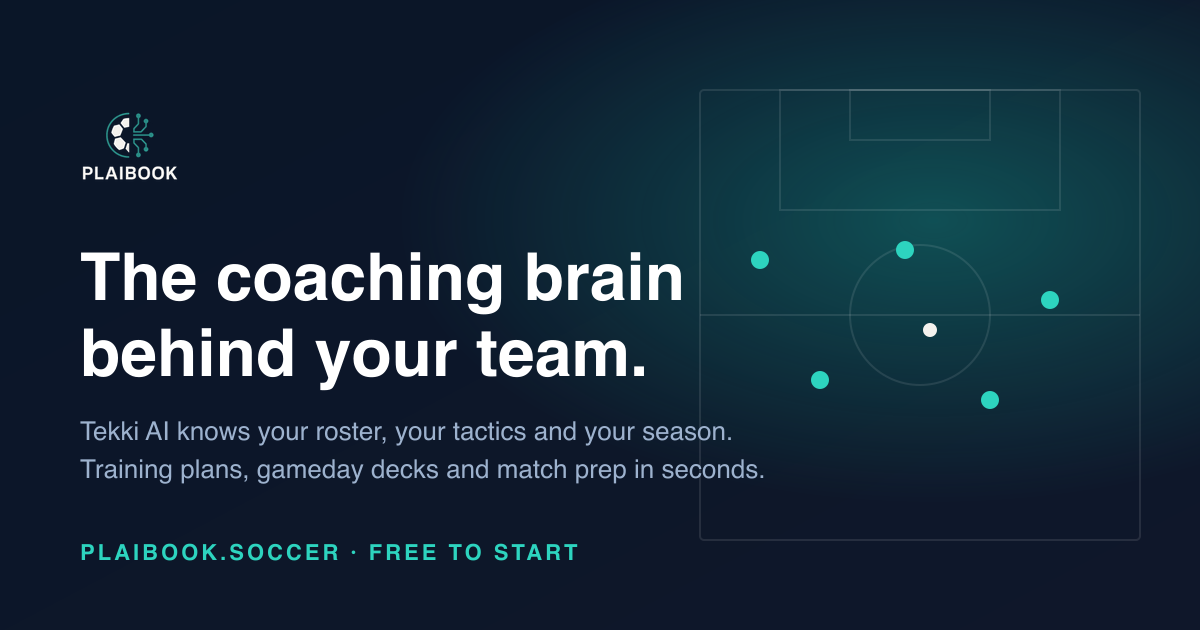
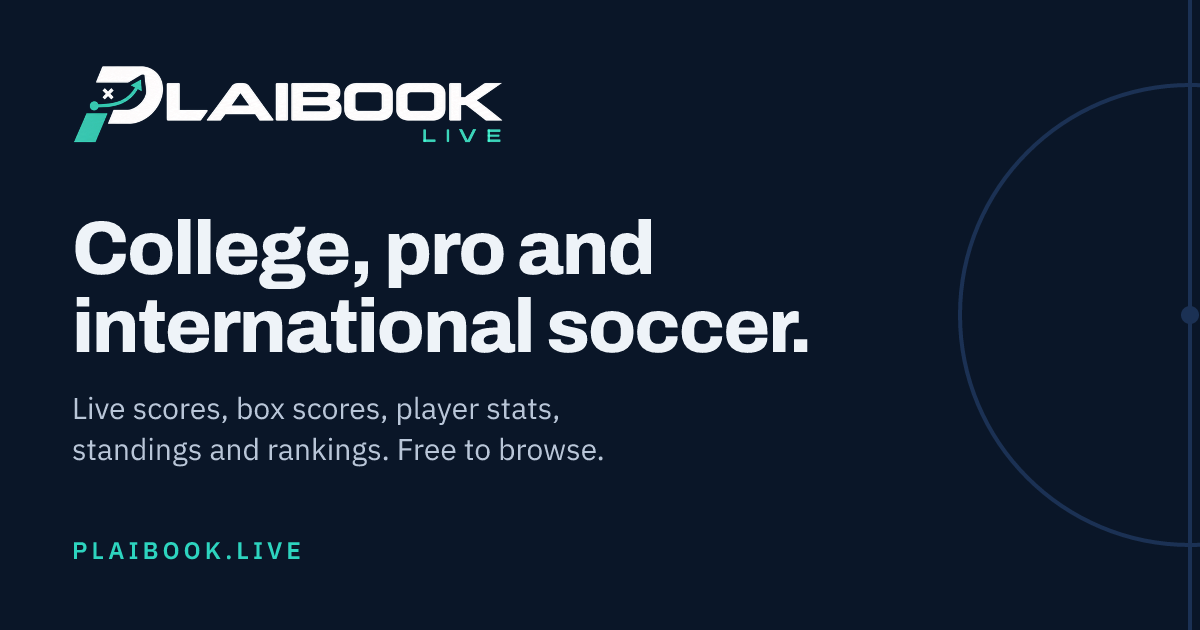
Rename Plaibook Stats to Plaibook Live
New LIVE logo (same lockup, STATS line redrawn as LIVE), a plaibook.live
share card in place of the plaibook.soccer one, and the name everywhere
people see it: titles, policy pages, header/footer, share-card wordmark,
calendar feeds, API docs. Internal names (package, follows key, hash salt,
crawler user agents) and old migrations are unchanged on purpose.

diff --git a/src/legal/content.ts b/src/legal/content.ts
@@ -1,11 +1,11 @@
-// The policy and information pages of Plaibook Stats (/about, /contact, /terms, /privacy, /sources, /data-use,
+// The policy and information pages of Plaibook Live (/about, /contact, /terms, /privacy, /sources, /data-use,
 // /copyright, /corrections, /accessibility, /advertise, /privacy-choices). Pure data, one copy: the server renders it for search engines and
 // no-JavaScript readers (src/seo/legal.ts) and the app fetches it from /api/legal/:slug, so the two never differ.
 // A block is a paragraph (string; [text](url) makes a link), { bullets }, or { table: { head, rows } }.
 // Written for the free stats site; the paid Plaibook app (plaibook.soccer) has its own policies.
 
 export const COMPANY = 'Plaibook Technologies, Inc.';
-export const SITE_NAME = 'Plaibook Stats';
+export const SITE_NAME = 'Plaibook Live';
 export const SITE = 'www.plaibook.live';
 /** The one address on every page. Change it here only. */
 export const CONTACT = 'support@plaibook.soccer';
@@ -21,8 +21,8 @@ const T = (head: string[], rows: string[][]): Block => ({ table: { head, rows } 
 const mail = (subject: string) => `[${CONTACT}](mailto:${CONTACT}?subject=${encodeURIComponent(subject)})`;
 
 const ABOUT: LegalPage = {
-  slug: 'about', path: '/about', nav: 'About', title: 'About Plaibook Stats',
-  description: 'Plaibook Stats is a free soccer statistics site for NCAA college soccer, professional leagues and international football, run by Plaibook Technologies, Inc.',
+  slug: 'about', path: '/about', nav: 'About', title: 'About Plaibook Live',
+  description: 'Plaibook Live is a free soccer statistics site for NCAA college soccer, professional leagues and international football, run by Plaibook Technologies, Inc.',
   intro: `${SITE_NAME} is a free soccer statistics site covering NCAA college soccer (Divisions I, II and III, men's and women's), professional leagues around the world and international football. It is run by ${COMPANY}, the company behind Plaibook, the coaching platform at plaibook.soccer. The Site is free to use; it is supported by advertising, sponsorships and paid data access.`,
   sections: [
     { id: 'what', heading: 'What you will find here', blocks: [B([
@@ -44,7 +44,7 @@ const ABOUT: LegalPage = {
 
 const CONTACT_PAGE: LegalPage = {
   slug: 'contact', path: '/contact', nav: 'Contact', title: 'Contact',
-  description: 'How to reach Plaibook Stats about corrections, removal requests, privacy, copyright, press and data licensing.',
+  description: 'How to reach Plaibook Live about corrections, removal requests, privacy, copyright, press and data licensing.',
   intro: `The quickest way to reach us is the request form on [Corrections and removal](/corrections), which goes straight to the people who keep the data. You can also email ${CONTACT}; please use the subject line below so your message reaches the right place.`,
   sections: [
     { id: 'who', heading: 'Who to contact about what', blocks: [T(['About', 'Use', 'Subject line'], [
@@ -63,7 +63,7 @@ const CONTACT_PAGE: LegalPage = {
 
 const TERMS: LegalPage = {
   slug: 'terms', path: '/terms', nav: 'Terms of use', title: 'Terms of Use',
-  description: 'The terms that apply when you use Plaibook Stats, including acceptable use, automated access, attribution and disclaimers.',
+  description: 'The terms that apply when you use Plaibook Live, including acceptable use, automated access, attribution and disclaimers.',
   intro: `These Terms of Use govern your use of ${SITE_NAME} at ${SITE}, its pages and its data (together, the "Site"), provided by ${COMPANY}, a Delaware corporation ("we", "us"). By using the Site you agree to these Terms and to our [Privacy Policy](/privacy). If you do not agree, do not use the Site.`,
   sections: [
     { id: 'use', heading: 'Using the Site', blocks: [
@@ -122,7 +122,7 @@ const TERMS: LegalPage = {
 
 const PRIVACY: LegalPage = {
   slug: 'privacy', path: '/privacy', nav: 'Privacy', title: 'Privacy Policy',
-  description: 'What Plaibook Stats collects (very little), what stays in your browser, how advertising works, and the rights you have.',
+  description: 'What Plaibook Live collects (very little), what stays in your browser, how advertising works, and the rights you have.',
   intro: `${SITE_NAME} has no accounts and sets no cookies of its own. To stay free it shows sponsors, which we serve ourselves without cookies or tracking, and it may show display ads from Google AdSense, which do use cookies; the section on cookies below explains how, and [Your privacy choices](/privacy-choices) lets you turn off personalised ads. This policy explains the little we collect when you visit ${SITE}, what stays in your own browser, and how we handle information about the athletes on the Site. It is provided by ${COMPANY}.`,
   sections: [
     { id: 'collect', heading: 'What we collect when you visit', blocks: [
@@ -171,7 +171,7 @@ const PRIVACY: LegalPage = {
 
 const SOURCES: LegalPage = {
   slug: 'sources', path: '/sources', nav: 'Credits', title: 'Credits',
-  description: 'Licence notices for the open data used on Plaibook Stats.',
+  description: 'Licence notices for the open data used on Plaibook Live.',
   intro: `Some of the data on ${SITE_NAME} is adapted from open sources whose licences ask for the notices below. Questions: ${CONTACT}.`,
   sections: [
     { id: 'wikipedia', heading: 'Wikipedia', blocks: [
@@ -191,7 +191,7 @@ const SOURCES: LegalPage = {
 
 const DATA_USE: LegalPage = {
   slug: 'data-use', path: '/data-use', nav: 'Data use and bots', title: 'Data use, our crawler and bots',
-  description: 'How Plaibook Stats collects data from other sites, the limits for bots and automated access, and AI crawlers.',
+  description: 'How Plaibook Live collects data from other sites, the limits for bots and automated access, and AI crawlers.',
   intro: 'This page explains how our own crawler behaves when it visits other sites, and the rules for anyone reading this Site automatically.',
   sections: [
     { id: 'crawler', heading: 'Our crawler', blocks: [
@@ -211,7 +211,7 @@ const DATA_USE: LegalPage = {
       'There is no public API or bulk download (see below); for data in bulk, ask us.',
     ] },
     { id: 'api', heading: 'No public API', blocks: [
-      'Plaibook Stats has no public API. Its data feeds our own Plaibook app through a private interface that is not open to others. Some data comes from licensed providers and is shown on our pages only. Credit Plaibook Stats wherever you quote the data.',
+      'Plaibook Live has no public API. Its data feeds our own Plaibook app through a private interface that is not open to others. Some data comes from licensed providers and is shown on our pages only. Credit Plaibook Live wherever you quote the data.',
     ] },
     { id: 'ai', heading: 'AI crawlers', blocks: [
       'Our robots.txt allows answer engines and AI search tools to read the Site\'s pages (not its /api/ endpoints) so they can cite it with a link, at up to about 20 pages a minute each; faster requests are refused with "too many requests". AI-training crawlers (such as GPTBot, ClaudeBot, Google-Extended, CCBot, Bytespider, meta-externalagent and Amazonbot) are kept off the Site, and their requests are refused. Using the Site\'s data to train AI models is not allowed under our [Terms of Use](/terms).',
@@ -221,7 +221,7 @@ const DATA_USE: LegalPage = {
 
 const COPYRIGHT: LegalPage = {
   slug: 'copyright', path: '/copyright', nav: 'Copyright', title: 'Copyright and DMCA',
-  description: 'How to tell Plaibook Stats about copyrighted material, the counter-notice process and our repeat-infringer policy.',
+  description: 'How to tell Plaibook Live about copyrighted material, the counter-notice process and our repeat-infringer policy.',
   intro: `We respect the rights of others. If you believe material on the Site infringes your copyright, send a notice to our designated agent and we will remove or disable it promptly, as the Digital Millennium Copyright Act (17 U.S.C. §512) provides.`,
   sections: [
     { id: 'notice', heading: 'Sending a notice', blocks: [
@@ -249,7 +249,7 @@ const COPYRIGHT: LegalPage = {
 
 const CORRECTIONS: LegalPage = {
   slug: 'corrections', path: '/corrections', nav: 'Corrections and removal', title: 'Corrections and removal requests',
-  description: 'Report an error on Plaibook Stats, or ask for a player\'s details or photo to be corrected or removed.',
+  description: 'Report an error on Plaibook Live, or ask for a player\'s details or photo to be corrected or removed.',
   intro: 'Found a wrong score, a misspelled name or a player in the wrong team? Want your details or photo taken down? Tell us here. We read every request.',
   form: 'request',
   sections: [
@@ -272,7 +272,7 @@ const CORRECTIONS: LegalPage = {
 
 const ACCESSIBILITY: LegalPage = {
   slug: 'accessibility', path: '/accessibility', nav: 'Accessibility', title: 'Accessibility',
-  description: 'Plaibook Stats aims to meet WCAG 2.2 AA. What we have done, known limits and how to tell us about a problem.',
+  description: 'Plaibook Live aims to meet WCAG 2.2 AA. What we have done, known limits and how to tell us about a problem.',
   intro: `We want everyone to be able to use ${SITE_NAME}, including people who use screen readers, keyboards, magnification or other assistive technology. We aim to meet the Web Content Accessibility Guidelines (WCAG) 2.2 at level AA.`,
   sections: [
     { id: 'done', heading: 'What we have done', blocks: [B([
@@ -295,7 +295,7 @@ const ACCESSIBILITY: LegalPage = {
 
 const ADVERTISE: LegalPage = {
   slug: 'advertise', path: '/advertise', nav: 'Advertise', title: 'Advertise and data licensing',
-  description: 'Sponsor a section of Plaibook Stats, advertise to college, pro and international soccer fans, or ask about data licensing.',
+  description: 'Sponsor a section of Plaibook Live, advertise to college, pro and international soccer fans, or ask about data licensing.',
   intro: `${SITE_NAME} is read by players, parents, coaches and fans following college, professional and international soccer, with an American focus. Sponsorships, advertising and data licensing keep the Site free. Tell us what you have in mind with the form below and we will reply within 2 business days.`,
   form: 'advertise',
   sections: [
@@ -318,7 +318,7 @@ const ADVERTISE: LegalPage = {
 
 const PRIVACY_CHOICES: LegalPage = {
   slug: 'privacy-choices', path: '/privacy-choices', nav: 'Your privacy choices', title: 'Your privacy choices',
-  description: 'Turn off personalised ads on Plaibook Stats, and how Global Privacy Control and consent work here.',
+  description: 'Turn off personalised ads on Plaibook Live, and how Global Privacy Control and consent work here.',
   intro: 'Choose whether the ads on this Site may be personalised. Your choice is kept in this browser only; set it again on each browser or device you use. It applies whenever display ads are switched on.',
   form: 'privacy-choices',
   sections: [

diff --git a/src/api/openapi.ts b/src/api/openapi.ts
@@ -12,9 +12,9 @@ export function openapiSpec(serverUrl: string): Record<string, unknown> {
   return {
     openapi: '3.1.0',
     info: {
-      title: 'Plaibook Stats API',
+      title: 'Plaibook Live API',
       version: '1.0.0',
-      description: 'Private to Plaibook (no public access since 2026-10-16). Read-only NCAA soccer data (D1/D2/D3, men and women) on the /v1 college routes, and every read the Plaibook Stats site makes (college, pro, international, news) under /v1/site. Every request needs a named key (X-Api-Key or Authorization: Bearer).',
+      description: 'Private to Plaibook (no public access since 2026-10-16). Read-only NCAA soccer data (D1/D2/D3, men and women) on the /v1 college routes, and every read the Plaibook Live site makes (college, pro, international, news) under /v1/site. Every request needs a named key (X-Api-Key or Authorization: Bearer).',
     },
     servers: [{ url: serverUrl }],
     components: {
@@ -46,7 +46,7 @@ export function openapiSpec(serverUrl: string): Record<string, unknown> {
       '/v1/matches/{id}/preview': { get: { summary: 'Match preview and review: head-to-head, form, standing, poll rank, key players, lineups', parameters: [{ name: 'id', in: 'path', required: true, schema: uuid }], responses: ok('{ game, head_to_head { played, home_wins, away_wins, ties, home_goals, away_goals, avg_goals, home_clean_sheets, away_clean_sheets, at_home, at_away, at_neutral { w, l, t }, biggest_home_win, biggest_away_win { id, game_date, score, margin }, streak { side, kind: won|unbeaten|drawn, count }, first_season, last_meeting, games[] (every earlier meeting, newest first, each with result W/L/T for the current home team and scorers[] { program_id, name, minute }) } — all from the current home team\'s side, sides { home, away } } — each side: stats (team season stats; form.last5 oldest→newest, streak), standing (rank, pod, conf record, points, of = table size), poll { rank, week_of }, leaders { scorers[], assists[], keeper }, lineup_status (match: this match\'s box score names starters · no_starters: its box score only lists who played · past: no box score yet · none), lineup { source, starters[], subs[], dnp[], keeper } for this match only (null until its box score exists), last_lineup { …, game_id, game_date, opponent } the side\'s latest lineup with starters when lineup is null; each line carries headshot_url where the school publishes a hotlinkable photo. Suppressed players are withheld (numbers stay, names and ids go).') } },
       '/v1/conferences': { get: { summary: 'Conferences with member counts and the top of each table', parameters: [season, gender, division], responses: ok('{ season, conferences: [{ id, ncaa_seo, name, short_name, division, site_host, members { m, w }, table { m|w: { top: [{ program_id, name, seo, logo, rank, conf_w, conf_l, conf_t, conf_pts }], source: conference|computed|none } } }] } sorted by name.') } },
       '/v1/conferences/{id}': { get: { summary: 'One conference: table, members, this week\'s matches, leaders, ranked members', parameters: [{ name: 'id', in: 'path', required: true, schema: uuid }, season, { ...gender, description: 'm (default) or w' }], responses: ok('{ conference, season, gender, standings (as /v1/standings for one conference), members[] (with season stats, form and poll rank), this_week (as /v1/matches, Monday to Sunday Eastern), leaders { points[], goals[], assists[], save_pct[] }, ranked[] }.') } },
-      '/v1/site/{path}': { get: { summary: 'Any read the Plaibook Stats site makes', description: 'Runs the site\'s own GET /api/{path} (college, pro, international, news) and returns its answer unchanged. The routes Plaibook may call are SITE_ROUTES in docs/plaibook-client.mjs; admin routes answer 404.', parameters: [{ name: 'path', in: 'path', required: true, schema: { type: 'string' }, description: 'e.g. programs/{id}/elo, pro/players/{slug}, intl/rankings, news' }], responses: { 200: { description: 'The site route\'s answer (JSON, or text/calendar for a .ics feed).' }, 401: { $ref: '#/components/responses/Unauthorized' }, 404: { description: 'Not a site data route.' }, 429: { $ref: '#/components/responses/RateLimited' } } } },
+      '/v1/site/{path}': { get: { summary: 'Any read the Plaibook Live site makes', description: 'Runs the site\'s own GET /api/{path} (college, pro, international, news) and returns its answer unchanged. The routes Plaibook may call are SITE_ROUTES in docs/plaibook-client.mjs; admin routes answer 404.', parameters: [{ name: 'path', in: 'path', required: true, schema: { type: 'string' }, description: 'e.g. programs/{id}/elo, pro/players/{slug}, intl/rankings, news' }], responses: { 200: { description: 'The site route\'s answer (JSON, or text/calendar for a .ics feed).' }, 401: { $ref: '#/components/responses/Unauthorized' }, 404: { description: 'Not a site data route.' }, 429: { $ref: '#/components/responses/RateLimited' } } } },
       '/v1/openapi.json': { get: { summary: 'This document', responses: { 200: { description: 'OpenAPI 3.1' }, 401: { $ref: '#/components/responses/Unauthorized' } } } },
     },
   };

diff --git a/ui/src/components/shell.tsx b/ui/src/components/shell.tsx
@@ -46,7 +46,7 @@ function AreaSwitch({ section }: { section: Section | null }) {
       </nav>
       <div ref={root} className="relative shrink-0 sm:hidden">
         <button type="button" className="flex min-h-11 items-center gap-1.5 rounded-md pr-1 text-sm font-semibold text-chalk-100" aria-expanded={open} aria-haspopup="true" aria-controls="area-menu" onClick={() => setOpen((v) => !v)}>
-          <Logo withText={false} size={24} />{section ? AREA_LABEL[section] : 'Plaibook Stats'}<ChevronDown size={14} aria-hidden className="text-chalk-400" />
+          <Logo withText={false} size={24} />{section ? AREA_LABEL[section] : 'Plaibook Live'}<ChevronDown size={14} aria-hidden className="text-chalk-400" />
         </button>
         {open && (
           <nav id="area-menu" aria-label="Area" className="absolute left-0 top-full z-40 mt-1 w-56 rounded-lg border border-field-700 bg-field-900 p-1 shadow-xl shadow-black/50">
@@ -154,7 +154,7 @@ export function TopBar() {
   return (
     <header className="sticky top-0 z-30 border-b border-field-700 bg-field-950">
       <div className="mx-auto flex h-14 max-w-page items-center gap-2 px-4 sm:gap-4 sm:px-6">
-        <Link to="/" className="hidden shrink-0 rounded sm:block" aria-label="Plaibook Stats home"><Logo size={34} className="hidden xl:inline-flex" /><Logo withText={false} size={28} className="xl:hidden" /></Link>
+        <Link to="/" className="hidden shrink-0 rounded sm:block" aria-label="Plaibook Live home"><Logo size={34} className="hidden xl:inline-flex" /><Logo withText={false} size={28} className="xl:hidden" /></Link>
         <AreaSwitch section={home ? null : section} />
         {/* The home page belongs to no one area: its search and the switch are the way in. */}
         {!home && <AreaNav area={section} admin={admin} />}
@@ -259,7 +259,7 @@ export function Crumbs({ items }: { items: { label: ReactNode; to?: string }[] }
 const FOOTER_COLUMNS: { title: string; links: [string, string][] }[] = [
   { title: 'College', links: [['/matches', 'Matches'], ['/conferences', 'Conferences'], ['/rankings', 'Rankings'], ['/team-of-the-week', 'Team of the week'], ['/tournament', 'NCAA tournament odds'], ['/tv', 'On TV']] },
   { title: 'Pro and International', links: [['/pro/matches', 'Pro matches'], ['/pro/leagues', 'Leagues'], ['/pro/abroad', 'Americans abroad'], ['/intl/matches', 'International matches'], ['/intl/tournaments', 'Tournaments'], ['/intl/rankings', 'World rankings']] },
-  { title: 'About', links: [['/about', 'About Plaibook Stats'], ['/contact', 'Contact'], ['/corrections', 'Report an error or request removal'], ['/sources', 'Credits'], ['/data-use', 'Data use and bots'], ['/advertise', 'Advertise with us']] },
+  { title: 'About', links: [['/about', 'About Plaibook Live'], ['/contact', 'Contact'], ['/corrections', 'Report an error or request removal'], ['/sources', 'Credits'], ['/data-use', 'Data use and bots'], ['/advertise', 'Advertise with us']] },
   { title: 'Legal', links: [['/terms', 'Terms of use'], ['/privacy', 'Privacy'], ['/privacy#browser', 'Cookies and storage'], ['/privacy-choices', 'Your privacy choices'], ['/copyright', 'Copyright'], ['/accessibility', 'Accessibility']] },
 ];
 
@@ -274,7 +274,7 @@ export function Footer() {
       <div className="mx-auto w-full max-w-page px-4 pb-28 pt-10 sm:px-6 md:pb-10">
         <div className="grid gap-8 lg:grid-cols-[minmax(0,1.1fr)_minmax(0,3fr)]">
           <div className="space-y-3">
-            <Link to="/" aria-label="Plaibook Stats home" className="inline-block"><Logo size={26} /></Link>
+            <Link to="/" aria-label="Plaibook Live home" className="inline-block"><Logo size={26} /></Link>
             <p className="max-w-xs text-sm leading-relaxed text-chalk-300">Free soccer stats for NCAA college soccer, professional leagues and international football.</p>
             <p className="text-sm text-chalk-400">Coaching a team? <a href="https://www.plaibook.soccer/?utm_source=stats&amp;utm_medium=referral&amp;utm_campaign=footer" className="text-pitch-300 hover:text-pitch-200">Coach with Tekki</a>, Plaibook's AI assistant for soccer coaches.</p>
           </div>
@@ -288,7 +288,7 @@ export function Footer() {
           </nav>
         </div>
         <div className="mt-8 space-y-2 border-t border-field-700 pt-5 text-xs leading-relaxed text-chalk-500">
-          <p>Team names, logos and competition names are trademarks of their owners. Plaibook Stats is independent and is not affiliated with or endorsed by the NCAA, any conference, school, league or federation.</p>
+          <p>Team names, logos and competition names are trademarks of their owners. Plaibook Live is independent and is not affiliated with or endorsed by the NCAA, any conference, school, league or federation.</p>
           <p className="flex flex-wrap gap-x-4 gap-y-1 pt-1 text-chalk-400">
             <span>© {year} Plaibook Technologies, Inc.</span>
             <span>Stats are provided as-is. <Link to="/corrections" className="text-chalk-300 hover:text-pitch-300">See an error? Report it.</Link></span>

diff --git a/ui/src/pages/Photo.tsx b/ui/src/pages/Photo.tsx
@@ -23,7 +23,7 @@ export default function Photo() {
   const key = params.get('player') ?? '';
   const entity = useEntityId('player', key);
   const q = useQuery({ queryKey: ['player', entity.id], queryFn: () => api<any>(`/api/players/${entity.id}`), enabled: !!entity.id });
-  if (!key || entity.missing) return <EmptyState title="Which player?" body="Open the player's page on Plaibook Stats and choose Add a photo there." action={<Link className="btn-ghost btn-sm" to="/players">Find a player</Link>} />;
+  if (!key || entity.missing) return <EmptyState title="Which player?" body="Open the player's page on Plaibook Live and choose Add a photo there." action={<Link className="btn-ghost btn-sm" to="/players">Find a player</Link>} />;
   if (entity.error) return <ErrorBox error={entity.error} />;
   if (q.isPending) return <div className="mx-auto max-w-2xl space-y-3"><Skeleton className="h-16" /><Skeleton className="h-96" /></div>;
   if (q.error) return <ErrorBox error={q.error} retry={() => q.refetch()} />;
@@ -40,7 +40,7 @@ export default function Photo() {
         </div>
       </header>
       <div className="space-y-2 text-[15px] leading-relaxed text-chalk-300">
-        <p>Send a photo of this player for their Plaibook Stats page and for Plaibook&apos;s posts about them (team of the week, stat leaders). We look at every photo before it is used, and credit it the way you ask.</p>
+        <p>Send a photo of this player for their Plaibook Live page and for Plaibook&apos;s posts about them (team of the week, stat leaders). We look at every photo before it is used, and credit it the way you ask.</p>
         <p>The player, a parent or guardian, or school or team staff can send one. We remove the location and camera details from the file. To have a photo taken down later, use the <Link to="/corrections" className="text-pitch-300 hover:text-pitch-200">corrections form</Link>.</p>
       </div>
       <PhotoForm playerId={p.id} name={p.display_name} />
@@ -114,7 +114,7 @@ function PhotoForm({ playerId, name }: { playerId: string; name: string }) {
         <legend className={label}>Please confirm</legend>
         <label className="flex items-start gap-2"><input type="checkbox" required className="mt-1" checked={f.consent_owner} onChange={set('consent_owner')} /><span>I took this photo, or the person who took it said we can use it.</span></label>
         <label className="flex items-start gap-2"><input type="checkbox" required className="mt-1" checked={f.consent_age} onChange={set('consent_age')} /><span>The player is 18 or older, or I am their parent or guardian.</span></label>
-        <label className="flex items-start gap-2"><input type="checkbox" required className="mt-1" checked={f.consent_use} onChange={set('consent_use')} /><span>Plaibook may show this photo on Plaibook Stats and in Plaibook&apos;s social posts, credited as above, until I ask for it to be removed.</span></label>
+        <label className="flex items-start gap-2"><input type="checkbox" required className="mt-1" checked={f.consent_use} onChange={set('consent_use')} /><span>Plaibook may show this photo on Plaibook Live and in Plaibook&apos;s social posts, credited as above, until I ask for it to be removed.</span></label>
       </fieldset>
       {/* A person never fills this in; bots do. */}
       <div aria-hidden className="absolute -left-[9999px] h-0 w-0 overflow-hidden"><label htmlFor="photo-website">Website</label><input id="photo-website" tabIndex={-1} autoComplete="off" value={f.website} onChange={set('website')} /></div>

diff --git a/tests/seo-head.test.ts b/tests/seo-head.test.ts
@@ -13,7 +13,7 @@ const ldOf = (h: { jsonLd: Record<string, unknown>[] }, type: string) => h.jsonL
 describe('teamHead', () => {
   it('builds title, description and an absolute canonical without the current season', () => {
     const h = teamHead(teamFixture(), ctx);
-    expect(h.title).toBe("Duke Men's Soccer 2026: Roster, Schedule and Stats | Plaibook Stats");
+    expect(h.title).toBe("Duke Men's Soccer 2026: Roster, Schedule and Stats | Plaibook Live");
     expect(h.canonical).toBe('https://plaibook-college-scraper.onrender.com/teams/duke/men');
     expect(h.description).toContain('8-2-1 overall (3-1-0 ACC)');
     expect(h.description).toContain('head coach Kevin Coach');
@@ -32,7 +32,7 @@ describe('teamHead', () => {
     expect(team.coach).toEqual({ '@type': 'Person', name: 'Kevin Coach' });
     expect(team.athlete[0]).toMatchObject({ '@type': 'Person', url: 'https://plaibook-college-scraper.onrender.com/players/jane-doe-222222' });
     const bc = ldOf(h, 'BreadcrumbList');
-    expect(bc.itemListElement.map((i: any) => i.name)).toEqual(['Plaibook Stats', 'Teams', "Duke Men's Soccer"]);
+    expect(bc.itemListElement.map((i: any) => i.name)).toEqual(['Plaibook Live', 'Teams', "Duke Men's Soccer"]);
   });
   it('noindexes programs that are not NCAA members that season', () => {
     expect(teamHead(teamFixture({ member: false }), ctx).robots).toBe('noindex,follow');
@@ -42,7 +42,7 @@ describe('teamHead', () => {
 describe('playerHead', () => {
   it('emits Person with the team affiliation', () => {
     const h = playerHead(playerFixture(), ctx);
-    expect(h.title).toBe("Jane Doe - Duke Men's Soccer Stats | Plaibook Stats");
+    expect(h.title).toBe("Jane Doe - Duke Men's Soccer Stats | Plaibook Live");
     expect(h.canonical).toBe('https://plaibook-college-scraper.onrender.com/players/jane-doe-222222');
     expect(h.description).toContain('2026: 6 goals, 3 assists in 11 games');
     const p = ldOf(h, 'Person');
@@ -60,7 +60,7 @@ describe('playerHead', () => {
 describe('matchHead', () => {
   it('describes a final with SportsEvent competitors, start and location', () => {
     const h = matchHead(matchFixture(), ctx);
-    expect(h.title).toBe("Wake Forest 1-2 Duke, Sep 12, 2026: Men's Soccer Box Score | Plaibook Stats");
+    expect(h.title).toBe("Wake Forest 1-2 Duke, Sep 12, 2026: Men's Soccer Box Score | Plaibook Live");
     expect(h.description).toContain('Goals: Jane Doe 12′');
     const e = ldOf(h, 'SportsEvent');
     expect(e.sport).toBe('Soccer');
@@ -132,7 +132,7 @@ describe('template', () => {
     expect(html.match(/name="description"/g)).toHaveLength(1);
     expect(html.match(/property="og:title"/g)).toHaveLength(1);
     expect(html.match(/property="og:image"/g)).toHaveLength(1);
-    expect(html).toContain('<meta property="og:site_name" content="Plaibook Stats" />');
+    expect(html).toContain('<meta property="og:site_name" content="Plaibook Live" />');
     expect(html.indexOf('<div id="root"></div>')).toBeLessThan(html.indexOf('<section id="ssr">'));
     expect(plainShell(shell)).not.toContain('<!--ssr-');
   });

diff --git a/tests/seo-pro.test.ts b/tests/seo-pro.test.ts
@@ -1,4 +1,4 @@
-// Plaibook Stats Pro's server-rendered pages and sitemaps, end to end through Fastify inject over fixture data.
+// Plaibook Live Pro's server-rendered pages and sitemaps, end to end through Fastify inject over fixture data.
 import { describe, it, expect, beforeAll, afterAll } from 'vitest';
 import Fastify, { type FastifyInstance } from 'fastify';
 import { readFileSync } from 'node:fs';
@@ -78,7 +78,7 @@ describe('pro seo routes', () => {
   it('renders a final with a score-line title, SportsEvent JSON-LD and the summary', async () => {
     const r = await app.inject({ url: `/pro/matches/${matchRow().slug}`, headers: HTML });
     expect(r.statusCode).toBe(200);
-    expect(between(r.body, '<title>', '</title>')).toBe('Portland Thorns 3-1 Boston Legacy, NWSL Women, Oct 4, 2026 | Plaibook Stats');
+    expect(between(r.body, '<title>', '</title>')).toBe('Portland Thorns 3-1 Boston Legacy, NWSL Women, Oct 4, 2026 | Plaibook Live');
     expect(r.body).toContain(`<link rel="canonical" href="${BASE}/pro/matches/${matchRow().slug}" />`);
     expect(r.body).not.toContain('name="robots"');
     const ld = jsonLd(r.body);
@@ -87,7 +87,7 @@ describe('pro seo routes', () => {
     const ssr = between(r.body, '<section id="ssr">', '</section>');
     expect(ssr).toContain('<a href="/pro/players/sophia-smith-9">Sophia Smith</a>');
     expect(ssr).toContain('assisted by O. Moultrie');
-    expect(ssr).toContain('Plaibook Stats Pro');
+    expect(ssr).toContain('Plaibook Live Pro');
   });
 
   it('unplayed and score-only matches are noindex', async () => {
@@ -119,7 +119,7 @@ describe('pro seo routes', () => {
 
   it('league and home pages', async () => {
     const l = await app.inject({ url: '/pro/leagues/usa-nwsl-women', headers: HTML });
-    expect(between(l.body, '<title>', '</title>')).toBe('NWSL Women 2026: Table, Results, Fixtures and Top Scorers | Plaibook Stats');
+    expect(between(l.body, '<title>', '</title>')).toBe('NWSL Women 2026: Table, Results, Fixtures and Top Scorers | Plaibook Live');
     expect(l.body).toContain('Portland Thorns top the table on 47 points');
     // The Pro home is the one home page now: /pro moves there (query kept), and / carries today's pro matches.
     const old = await app.inject({ url: '/pro?gender=w', headers: HTML });

diff --git a/src/jobs/catalogue.ts b/src/jobs/catalogue.ts
@@ -31,7 +31,7 @@ export const JOB_META: Record<string, JobMeta> = {
   'merge-twins': { description: 'Fold synthetic x- programs into the real program of the same school (duplicate standings rows, unmatched poll entries). Lists the pairs unless Apply is set.', lane: 'crawl', params: [season, { name: 'apply', type: 'boolean', label: 'Apply', help: 'Off = list the pairs only.' }, { name: 'only', type: 'string[]', label: 'Only these x- slugs' }], dangerous: true },
   'final-detail': { description: 'A game that just went final: its NCAA.com box score now, its two programs reconciled and totals recomputed, then Plaibook told (queued by the live job; runs on the side lane).', lane: 'aux', params: [season, { name: 'contest_ids', type: 'string[]', label: 'Contest ids' }] },
   'ops-retention': { description: 'Delete finished runs older than 30 days (live: 1 day), API usage older than 90 days, quality snapshots older than 180 days.', lane: 'crawl', params: [] },
-  // Plaibook Stats Pro (API-Football; every request counts against Plaibook's shared daily quota, see src/sources/apiFootball/client.ts).
+  // Plaibook Live Pro (API-Football; every request counts against Plaibook's shared daily quota, see src/sources/apiFootball/client.ts).
   'pro-catalog': { description: 'Pro: the competition list from API-Football (1 request): leagues, seasons and coverage. New professional leagues switch on by themselves.', lane: 'pro-bulk', params: [] },
   'pro-scoreboard': { description: 'Pro: every match worldwide on a UTC day (1 request per day) for enabled competitions; finals queue their detail.', lane: 'pro', params: [{ name: 'days', type: 'enum', label: 'Days', options: ['auto', 'today', 'recent'], default: 'auto', help: 'recent = yesterday, today, tomorrow; auto = recent at the top of the hour.' }, { name: 'dates', type: 'string[]', label: 'Dates (UTC)', help: 'YYYY-MM-DD; overrides Days.' }] },
   'pro-live': { description: 'Pro: live scores for every match in play (1 request); a match that leaves the live list is read by id for its final score and detail.', lane: 'pro', params: [] },

diff --git a/ui/index.html b/ui/index.html
@@ -3,15 +3,15 @@
   <head>
     <meta charset="UTF-8" />
     <meta name="viewport" content="width=device-width, initial-scale=1.0, viewport-fit=cover" />
-    <title>Plaibook Stats — NCAA college soccer data</title>
+    <title>Plaibook Live — NCAA college soccer data</title>
     <meta name="description" content="Every NCAA soccer program, D1 through D3, men's and women's: rosters, box scores, season stats, conference standings and polls. Free to browse." />
     <meta name="theme-color" content="#0A1628" />
     <link rel="icon" type="image/png" sizes="32x32" href="/brand/favicon-32.png" />
     <link rel="icon" type="image/png" sizes="256x256" href="/brand/favicon.png" />
     <link rel="apple-touch-icon" href="/brand/apple-touch-icon.png" />
     <meta property="og:type" content="website" />
-    <meta property="og:site_name" content="Plaibook Stats" />
-    <meta property="og:title" content="Plaibook Stats — NCAA college soccer data" />
+    <meta property="og:site_name" content="Plaibook Live" />
+    <meta property="og:title" content="Plaibook Live — NCAA college soccer data" />
     <meta property="og:description" content="Rosters, box scores, season stats, standings and polls for every NCAA soccer program. Free to browse." />
     <meta property="og:image" content="https://www.plaibook.live/brand/og.png" />
     <meta name="twitter:card" content="summary_large_image" />

diff --git a/src/jobs/scheduler.ts b/src/jobs/scheduler.ts
@@ -38,7 +38,7 @@ export const SCHEDULE: ScheduleEntry[] = [
   { job: 'standings', label: 'Standings, polls, record checks', cadence: 'every 3 hours at :15, Aug–Dec', due: (c) => c.m === 15 && c.h % 3 === 0 && inSeason(c) },
   { job: 'nightly', label: 'Nightly crawl', cadence: 'daily 08:15 UTC', due: (c) => c.h === 8 && c.m === 15 },
   { job: 'weekly', label: 'Weekly full re-sync', cadence: 'Tuesdays 15:00 UTC', due: (c) => c.dow === 2 && c.h === 15 && c.m === 0 },
-  // Plaibook Stats Pro: all year (pro seasons never stop somewhere), only with an API-Football key.
+  // Plaibook Live Pro: all year (pro seasons never stop somewhere), only with an API-Football key.
   { job: 'pro-live', label: 'Pro: live scores', cadence: 'every 2 minutes while a pro match is in play (scores, then events, lineups and stats for the matches in play)', due: (c) => c.m % 2 === 1, gate: async (db) => proEnabled() && proLiveDue(db) },
   { job: 'pro-scoreboard', label: 'Pro: today\'s matches', cadence: 'every 10 minutes (yesterday and tomorrow too at :00)', due: (c) => c.m % 10 === 0, gate: async () => proEnabled() },
   { job: 'pro-final-detail', label: 'Pro: match detail', cadence: 'every 15 minutes at :07', due: (c) => c.m % 15 === 7, gate: async () => proEnabled() },

diff --git a/ui/src/pages/Team.tsx b/ui/src/pages/Team.tsx
@@ -40,7 +40,7 @@ export default function Team() {
   const roster = useQuery({ queryKey: ['roster', id, f.season], queryFn: () => api<any[]>(`/api/programs/${id}/roster${qs({ season: f.season })}`), enabled: !!id });
   const games = useQuery({ queryKey: ['pgames', id, f.season], queryFn: () => api<any[]>(`/api/programs/${id}/games${qs({ season: f.season })}`), enabled: !!id });
   const sync = useMutation({ mutationFn: (force: boolean) => api<{ id: string }>(`/api/programs/${id}/sync`, { method: 'POST', body: JSON.stringify({ season: f.season, force }) }), onSuccess: (r) => setRunId(r.id) });
-  // Plaibook Stats Pro: players from this program who play professionally (College to Pro links).
+  // Plaibook Live Pro: players from this program who play professionally (College to Pro links).
   const prog = team.data?.program;
   const alumni = useQuery({ queryKey: ['pro-alumni', prog?.school_seo, prog?.gender], queryFn: () => api<{ players: any[] }>(`/api/pro/college/${prog!.school_seo}/${prog!.gender}`), enabled: !!prog?.school_seo, staleTime: 600_000 });
   const refreshAll = () => { qc.invalidateQueries({ queryKey: ['program', id] }); qc.invalidateQueries({ queryKey: ['roster', id] }); qc.invalidateQueries({ queryKey: ['pgames', id] }); };

diff --git a/src/workerLanes.ts b/src/workerLanes.ts
@@ -19,7 +19,7 @@ export function startWorkers(controller: AbortController, cfg: Pick<Config, 'WOR
     // A second worker for finished college matches' box scores (since the 2 GB instance, 2026-10-15): a busy night's
     // finals no longer queue for hours behind one worker. Each run claims its own games.
     workerLoop(getDb(), { signal: controller.signal, jobs: ['final-detail'], idleMs: 15_000, lane: 'aux-b' }).catch((err) => { log.error({ err: String(err) }, 'aux-b worker crashed'); process.exit(1); });
-    // A fourth for Plaibook Stats Pro's everyday jobs (scores, detail, tables): seconds each, all year, never behind a college crawl.
+    // A fourth for Plaibook Live Pro's everyday jobs (scores, detail, tables): seconds each, all year, never behind a college crawl.
     workerLoop(getDb(), { signal: controller.signal, jobs: PRO_LANE_JOBS, idleMs: 10_000, lane: 'pro' }).catch((err) => { log.error({ err: String(err) }, 'pro worker crashed'); process.exit(1); });
     // A second worker that only takes pro-live (2026-11-02): full time used to wait behind pro-predictions (up to 800
     // requests every 3 h) or pro-leaders on the one pro worker, so a final reached Plaibook 8-16 min after the whistle.

diff --git a/ui/src/pages/console/RequestsTab.tsx b/ui/src/pages/console/RequestsTab.tsx
@@ -33,7 +33,7 @@ export default function RequestsTab() {
             <div className="flex flex-wrap items-center gap-2">
               <Badge tone={r.kind === 'removal' || r.kind === 'privacy' ? 'red' : r.kind === 'copyright' ? 'amber' : 'blue'}>{KIND[r.kind] ?? r.kind}</Badge>
               {r.status !== 'open' && <Badge tone="gray">{r.status}</Badge>}
-              <a href={`mailto:${r.email}?subject=${encodeURIComponent(`Your Plaibook Stats request (${KIND[r.kind] ?? r.kind})`)}`} className="font-medium text-pitch-300 hover:text-pitch-200">{r.name ? `${r.name} <${r.email}>` : r.email}</a>{r.company && <span className="text-chalk-400">{r.company}</span>}
+              <a href={`mailto:${r.email}?subject=${encodeURIComponent(`Your Plaibook Live request (${KIND[r.kind] ?? r.kind})`)}`} className="font-medium text-pitch-300 hover:text-pitch-200">{r.name ? `${r.name} <${r.email}>` : r.email}</a>{r.company && <span className="text-chalk-400">{r.company}</span>}
               {r.relation && <span className="text-xs text-chalk-400">{r.relation}</span>}
               <span className="ml-auto text-xs text-chalk-500" title={r.created_at}>{fmt.ago(r.created_at)}</span>
             </div>
